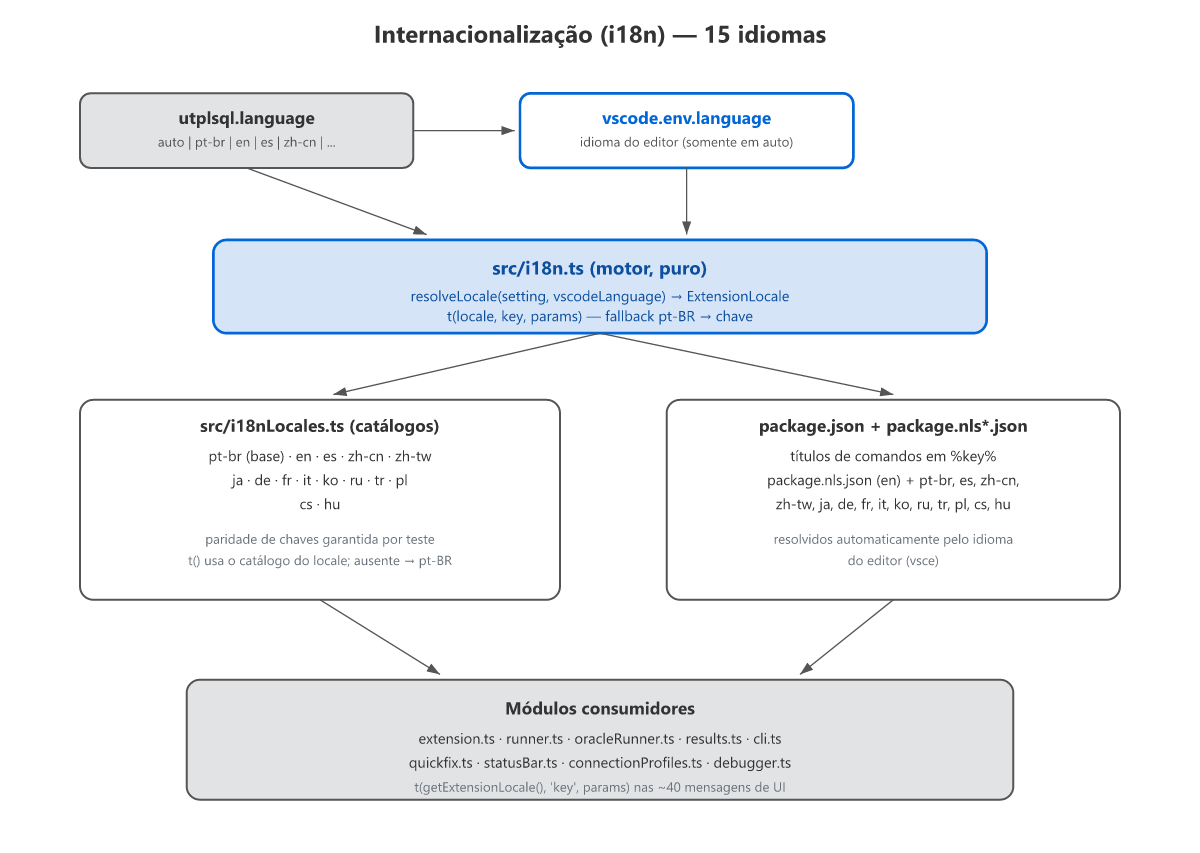
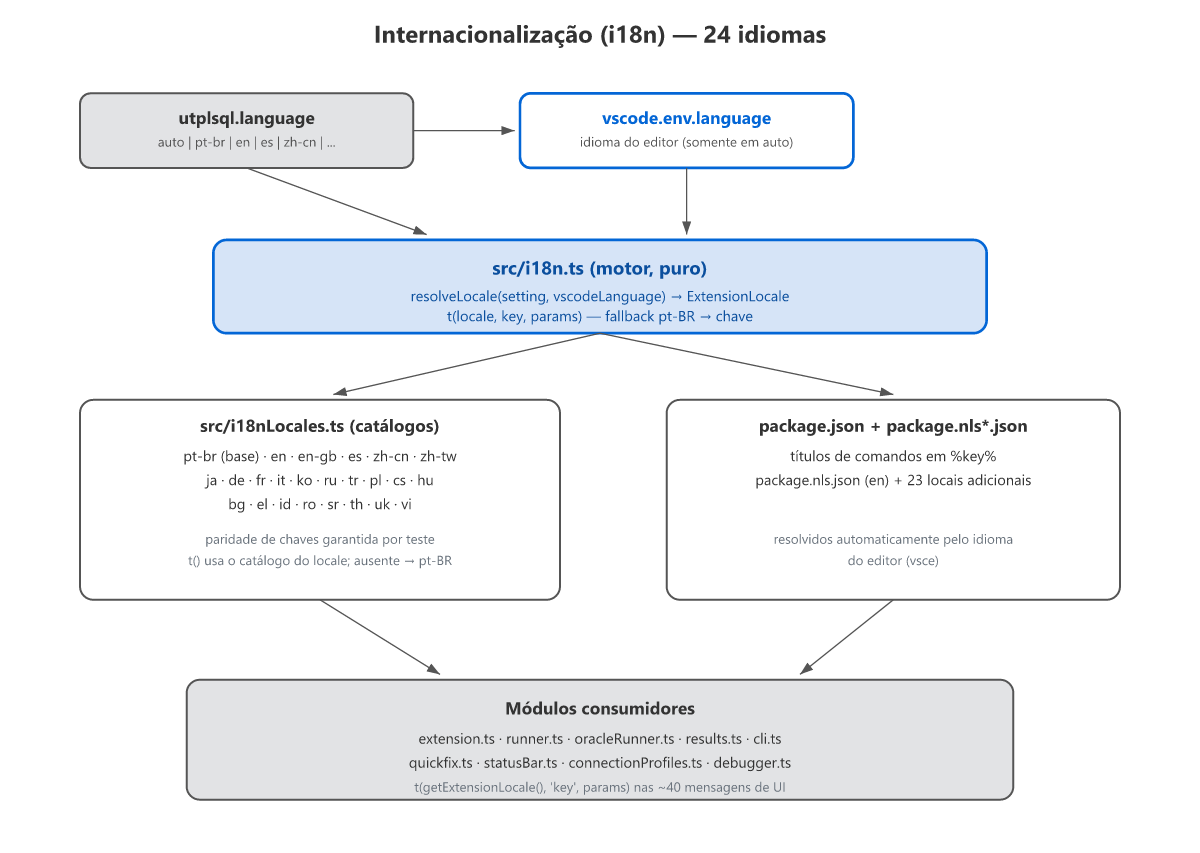
docs(i18n): documenta os 24 idiomas (15 nativos + 9 da comunidade)
- README: bullet de features + linha da config utplsql.language (24 locais).
- Wiki: Configurações (valores), Arquitetura (24 locais).
- functional 09: tabela e descrição do i18n.
- CHANGELOG: bullet de i18n com os 24.
- diagram-i18n (SVG+PNG): catálogos com os 9 novos.
- Posts LinkedIn (locais): feature i18n e release 0.12.0 atualizados para 24.

Changed region(s): [[0.1542, 0.5182, 0.37, 0.6096], [0.6167, 0.5487, 0.8633, 0.6096], [0.5858, 0.0305, 0.6167, 0.061]]

diff --git a/README.md b/README.md
@@ -21,7 +21,7 @@ Integra o [utPLSQL](https://www.utplsql.org/) ao VSCode, trazendo os testes de P
 - 🔌 **Perfis de conexão** — salve e alterne entre múltiplos ambientes (DEV/TEST/PROD) com configurações por perfil, via status bar ou command palette.
 - 📈 **Cobertura por declaração e de views** — a aba Coverage mostra `% de declarações` (PROCEDURE/FUNCTION) por arquivo e rastreia views executadas via `V$SQL`.
 - 🐛 **Debug PL/SQL** — breakpoints e step debugging de testes utPLSQL via `DBMS_DEBUG` (Debug Adapter nativo).
-- 🌍 **i18n — 15 idiomas** — `utplsql.language` segue o VSCode (pt-br, en, es, zh-cn, zh-tw, ja, de, fr, it, ko, ru, tr, pl, cs, hu).
+- 🌍 **i18n — 24 idiomas** — `utplsql.language` segue o VSCode (15 nativos + 9 da comunidade: pt-br, en, en-gb, es, zh-cn, zh-tw, ja, de, fr, it, ko, ru, tr, pl, cs, hu, bg, el, id, ro, sr, th, uk, vi).
 
 ## Instalação
 
@@ -141,7 +141,7 @@ estiver instalado. Use `runnerMode: cli` para forçar CLI sempre.
 | `utplsql.debugger.enabled` | `true` | Habilita o debug PL/SQL de testes (`DBMS_DEBUG`). Requer `node-oracledb` + grants. |
 | `utplsql.debugger.stopOnException` | `true` | Pausa em exceções PL/SQL durante o debug. |
 | `utplsql.debugger.timeoutSeconds` | `300` | Timeout (s) da sessão de debug. |
-| `utplsql.language` | `auto` | Idioma das mensagens de runtime. `auto` segue o VSCode (`pt*`→pt-br, `zh-tw`/`zh-hk`→zh-tw, `zh*`→zh-cn, `es*`→es, `ja*`→ja, `de*`→de, `fr*`→fr, `it*`→it, `ko*`→ko, `ru*`→ru, `tr*`→tr, `pl*`→pl, `cs*`→cs, `hu*`→hu; senão en). Cobre os 15 locais nativos do VSCode. |
+| `utplsql.language` | `auto` | Idioma das mensagens de runtime. `auto` segue o VSCode (pt, zh-tw/zh-hk, zh, es, ja, de, fr, it, ko, ru, tr, pl, cs, hu, bg, el, id, ro, sr, th, uk, vi, en-gb; senão en). Cobre os **24 locais** (15 nativos + 9 da comunidade). |
 
 Exemplo (`.vscode/settings.json` do projeto):
 

diff --git a/docs/functional/09-configuration.md b/docs/functional/09-configuration.md
@@ -173,7 +173,7 @@ mergeProfileConfig(global: UtConfig, profile?): UtConfig;
 ## i18n (PRD-49)
 
 Motor de tradução das mensagens de runtime. `src/i18n.ts` (puro) + catálogos
-em `src/i18nLocales.ts` para 15 idiomas.
+em `src/i18nLocales.ts` para 24 idiomas (15 nativos do VSCode + 9 da comunidade).
 
 ```typescript
 function resolveLocale(setting: string, vscodeLanguage: string): ExtensionLocale
@@ -187,7 +187,7 @@ function t(locale: ExtensionLocale, key: string, params?): string
 
 | Setting | Valores | Default |
 |---|---|---|
-| `utplsql.language` | `auto` \| `pt-br` \| `en` \| `es` \| `zh-cn` \| `zh-tw` \| `ja` \| `de` \| `fr` \| `it` \| `ko` \| `ru` \| `tr` \| `pl` \| `cs` \| `hu` | `auto` |
+| `utplsql.language` | `auto` \| `pt-br` \| `en` \| `en-gb` \| `es` \| `zh-cn` \| `zh-tw` \| `ja` \| `de` \| `fr` \| `it` \| `ko` \| `ru` \| `tr` \| `pl` \| `cs` \| `hu` \| `bg` \| `el` \| `id` \| `ro` \| `sr` \| `th` \| `uk` \| `vi` | `auto` |
 
 `package.nls*.json` traduzem os títulos de comandos; o motor i18n cobre as
 mensagens de runtime (prompts, outputs, diagnósticos).

diff --git a/CHANGELOG.md b/CHANGELOG.md
@@ -22,10 +22,11 @@
   `DEBUG CONNECT SESSION`. Settings `utplsql.debugger.*`. Integração com
   banco real pendente de validação (suíte `describeDB`).
 - **Internacionalização (PRD-49)**: setting `utplsql.language`
-  (`auto` | 15 locais nativos do VSCode) para as mensagens de runtime —
-  pt-br, en, es, zh-cn, zh-tw, ja, de, fr, it, ko, ru, tr, pl, cs, hu;
-  títulos de comandos via `package.nls` (seguem o idioma do editor). `auto`
-  em editor `pt*` reproduz as mensagens atuais.
+  (`auto` | 24 locais — 15 nativos do VSCode + 9 da comunidade) para as
+  mensagens de runtime: pt-br, en, en-gb, es, zh-cn, zh-tw, ja, de, fr,
+  it, ko, ru, tr, pl, cs, hu, bg, el, id, ro, sr, th, uk, vi; títulos de
+  comandos via `package.nls` (seguem o idioma do editor). `auto` em editor
+  `pt*` reproduz as mensagens atuais.
 
 ## 0.11.0
 

diff --git a/docs/wiki/Configurações.md b/docs/wiki/Configurações.md
@@ -100,7 +100,7 @@ schemas das suites locais. Veja [Organização da árvore](Organização-da-árv
 
 | Setting | Default | Descrição |
 |---|---|---|
-| `utplsql.language` | `auto` | Idioma da interface da extensão. `auto` segue o idioma do VSCode. Valores: `auto`, `pt-br`, `en`, `es`, `zh-cn`, `zh-tw`, `ja`, `de`, `fr`, `it`, `ko`, `ru`, `tr`, `pl`, `cs`, `hu`. |
+| `utplsql.language` | `auto` | Idioma da interface da extensão. `auto` segue o idioma do VSCode. Valores: `auto`, `pt-br`, `en`, `en-gb`, `es`, `zh-cn`, `zh-tw`, `ja`, `de`, `fr`, `it`, `ko`, `ru`, `tr`, `pl`, `cs`, `hu`, `bg`, `el`, `id`, `ro`, `sr`, `th`, `uk`, `vi`. |
 
 ## Hierarquia de settings
 

diff --git a/docs/wiki/Arquitetura.md b/docs/wiki/Arquitetura.md
@@ -49,7 +49,7 @@ embutidas no bundle.
 | `codelens.ts` (parse) — `parseCodeLensItems` | |
 | `state.ts`, `types.ts` (type-only) | |
 | `plsqlDeclarations.ts` — extrai declarações PROCEDURE/FUNCTION do fonte | |
-| `i18n.ts`, `i18nLocales.ts` — localização (15 locais) | |
+| `i18n.ts`, `i18nLocales.ts` — localização (24 locais) | |
 | | `connectionProfiles.ts` — perfis de conexão |
 | | `viewCoverage.ts` — DeclarationCoverage na aba Test Coverage |
 | | `dbmsDebug.ts`, `debugger.ts` — debug PL/SQL via DBMS_DEBUG |
